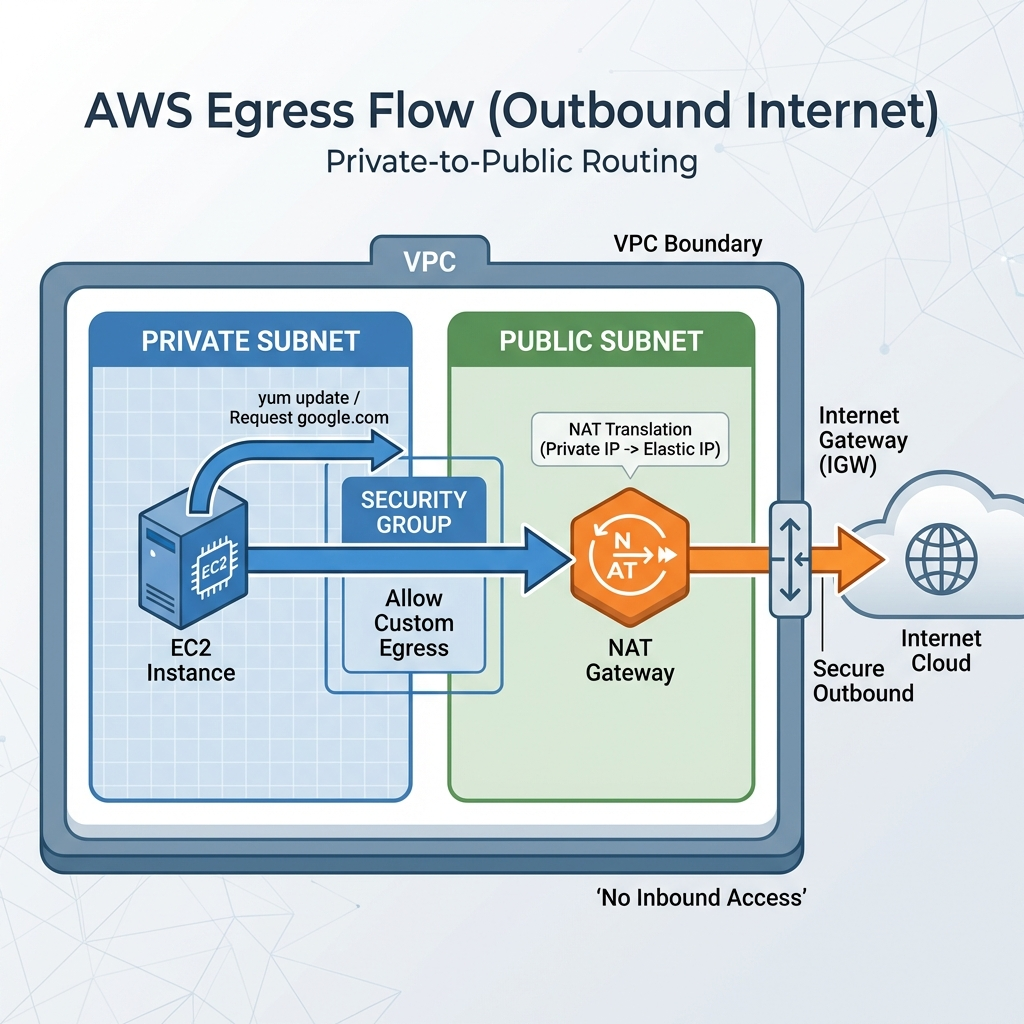
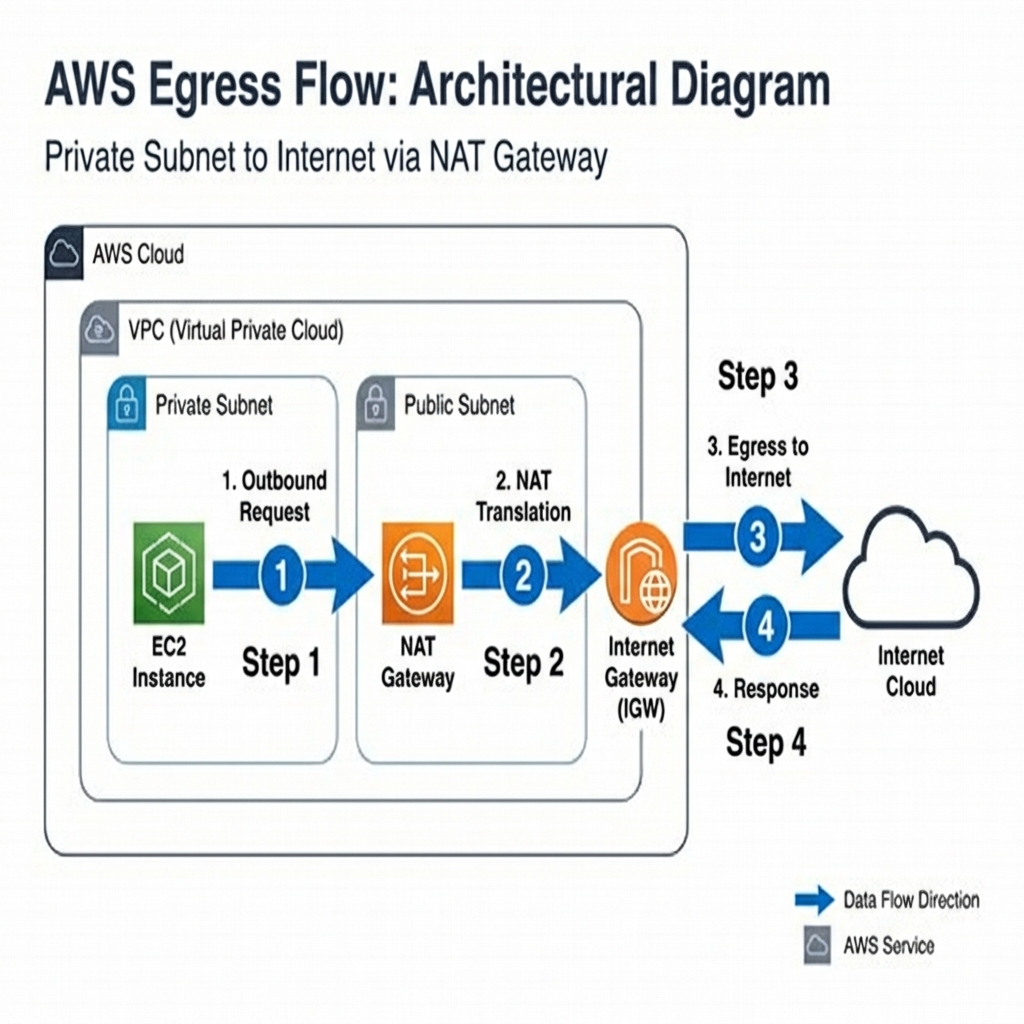
Docs: Updated workflow.md and diagrams with numbered steps

diff --git a/load-balancer/workflow.md b/load-balancer/workflow.md
@@ -1,89 +1,82 @@
-# 🧠 The AWS Data Flow: "Nano Banana" Explanation
+# 🧠 The AWS Data Flow: Architectural Explanations
 
-This document explains the complex flow of traffic in our secure architecture using the simplest possible terms (The "Nano Banana" approach), alongside architect-level diagrams for deep understanding.
+This document provides a detailed, step-by-step technical explanation of the traffic flows within our secure architecture. Each section corresponds to the numbered steps in the accompanying diagrams.
 
 ---
 
-## 🍌 flow 1: "The User Visits the Site" (Ingress)
+## Flow 1: Ingress (Secure User Access)
 
-**Goal:** A user wants to see your website securely (`https://`).
-
-### The Architect's View
+**Goal:** Securely route external HTTPS traffic to private application servers.
 
 ![Ingress Architecture](architect_flow_ingress_tls.png)
 
-### The "Nano Banana" Steps
+### Step-by-Step Breakdown
 
-1.  **The Lock (TLS)**:
-    - User sends a locked box (HTTPS request) to `https://garden...`.
-    - Only the **Load Balancer (ALB)** has the key (SSL Certificate) to open it.
-2.  **The Decryption**:
-    - The ALB sits in the **Public Subnet** (it has a public address).
-    - It unlocks the box, looks inside ("Oh, you want `index.html`"), and re-packages it.
-3.  **The Hand-off**:
-    - The ALB sends the _unlocked_ request (HTTP) to the **Private Server** hidden in the back room.
-    - **Security Rule**: The Private Server ignores _everyone_ except the ALB.
+1.  **Step 1: HTTPS Request**
+    - The user initiates a secure request (e.g., `https://garden.srinivaskona.life`) from their browser.
+    - This traffic is encrypted using TLS (Transport Layer Security).
+
+2.  **Step 2: DNS Resolution**
+    - The request first hits **AWS Route 53**, which acts as the phonebook.
+    - Route 53 resolves the domain name to the IP addresses of the **Application Load Balancer (ALB)**.
+    - _Note:_ The DNS bypasses the Internet Gateway; it is purely resolution logic.
+
+3.  **Step 3: Ingress**
+    - The traffic enters variables via the **Internet Gateway (IGW)** attached to the VPC.
+    - It reaches the **ALB** located in the **Public Subnet**.
+    - **Action**: The ALB uses the stored SSL Certificate (ACM) to **Decrypt** the traffic (Termination). It inspects the packet to determine routing rules.
+
+4.  **Step 4: Forwarding (Decrypted Traffic)**
+    - The ALB establishes a new, internal connection to the backend **EC2 Instance** in the **Private Subnet**.
+    - **Security**: The traffic travels over Port 80 (HTTP) inside the secure VPC network.
+    - The Private Instance only accepts traffic from the ALB's Security Group, rejecting all other direct access.
 
 ---
 
-## 🍌 Flow 2: "The Server Needs Updates" (Egress)
+## Flow 2: Egress (Outbound Internet Access)
 
-**Goal:** Your Private Server needs to download a security patch from `google.com`.
-
-### The Architect's View
+**Goal:** Allow private instances to download updates (e.g., `yum update`) without exposing them to inbound attacks.
 
 ![Egress Architecture](architect_flow_egress_nat.png)
 
-### The "Nano Banana" Steps
+### Step-by-Step Breakdown
 
-1.  **The Problem**:
-    - The Private Server has NO public IP. It's like a computer with no modem. It can shout "Help!", but the internet can't hear it.
-2.  **The Middleman (NAT Gateway)**:
-    - The server sends the request to the **NAT Gateway** (which lives in the Public Subnet).
-3.  **The Translation**:
-    - The NAT Gateway says, "I'll handle this."
-    - It stamps its own _Public IP_ on the letter and mails it to Google.
-    - Google replies to the NAT Gateway.
-    - The NAT Gateway hands the reply back to the Private Server.
+1.  **Step 1: Outbound Request**
+    - A Private EC2 instance needs to reach the internet (e.g., to Google).
+    - Since it has no Public IP, it sends the request to the **NAT Gateway** defined in its Route Table.
+    - _Internal Route:_ `0.0.0.0/0 -> nat-gateway-id`.
+
+2.  **Step 2: NAT Translation**
+    - The NAT Gateway (living in the Public Subnet) receives the packet.
+    - **Source NAT (SNAT)**: It replaces the Private IP of the sender with its own **Elastic IP (Public IP)**.
+    - It keeps a record of this mapping in its connection table.
+
+3.  **Step 3: Egress to Internet**
+    - The NAT Gateway sends the now-public packet out through the **Internet Gateway (IGW)** to the destination.
+
+4.  **Step 4: Response**
+    - The external server responds to the NAT Gateway's Public IP.
+    - The NAT Gateway marks the return packet, identifies the original sender from its table, and forwards the response back to the Private Instance.
 
 ---
 
-## 🍌 Flow 3: "The Admin Needs to Fix Code" (Access)
+## Flow 3: Administrative Access (Bastion Host)
 
-**Goal:** You (the Admin) need to log in to fixed a bug on the Private Server.
-
-### The Architect's View
+**Goal:** Provide secure SSH access to private servers for administrators.
 
 ![Access Architecture](architect_flow_access_bastion.png)
 
-### The "Nano Banana" Steps
+### Step-by-Step Breakdown
 
-1.  **The Bouncer (Bastion Host)**:
-    - You cannot walk directly into the secure vault (Private Subnet).
-    - You SSH into the **Bastion Host** (Jump Server) in the Public Lobby.
-    - _Security_: The Bastion only accepts keys from _your_ IP address.
-2.  **The Jump**:
-    - Once you are inside the Bastion, you are "inside the building".
-    - From the Bastion, you SSH _again_ to the Private Server (`10.0.3.15`).
-    - The Private Server allows this because it trusts the Bastion.
+1.  **Step 1: External SSH Connection**
+    - The Administrator initiates an SSH connection (`ssh -i key.pem user@bastion-ip`).
+    - **Security Boundary**: The **Bastion Host** (in the Public Subnet) allows this connection **ONLY** from the Administrator's specific IP address (whitelisted in the Security Group).
 
----
+2.  **Step 2: Traffic Forwarding (Jump)**
+    - Once authenticated on the Bastion Host, the Administrator is effectively "inside" the VPC network.
+    - The Bastion Host acts as a "Jump Server".
 
-## 🛡 Security Group "Skeleton" (The Rules)
-
-Here is the logic that enforces these flows.
-
-### 1. ALB Security Group (`sri-alb-sg`)
-
-- **Allow Inbound**: Port `443` (HTTPS) from `0.0.0.0/0` (Everyone).
-- **Allow Outbound**: Everything (to talk to instances).
-
-### 2. App Instance Security Group (`sri-app-sg`)
-
-- **Allow Inbound**: Port `80` (HTTP) **ONLY from `sri-alb-sg`**.
-- **Allow Inbound**: Port `22` (SSH) **ONLY from `sri-bastion-sg`**.
-- _Result_: If a hacker tries to hit the instance directly, they are blocked.
-
-### 3. Bastion Security Group (`sri-bastion-sg`)
-
-- **Allow Inbound**: Port `22` (SSH) **ONLY from Your Personal IP**.
+3.  **Step 3: Internal SSH**
+    - From the Bastion, the Administrator initiates a second SSH connection to the **Private Instance**'s private IP (`ssh user@10.0.x.x`).
+    - **Key Forwarding**: The Administrator's SSH Agent forwards their credentials securely, so private keys are never stored on the Bastion itself.
+    - The Private Instance Security Group allows Port 22 connections **ONLY** from the Bastion Host's Security Group ID.
